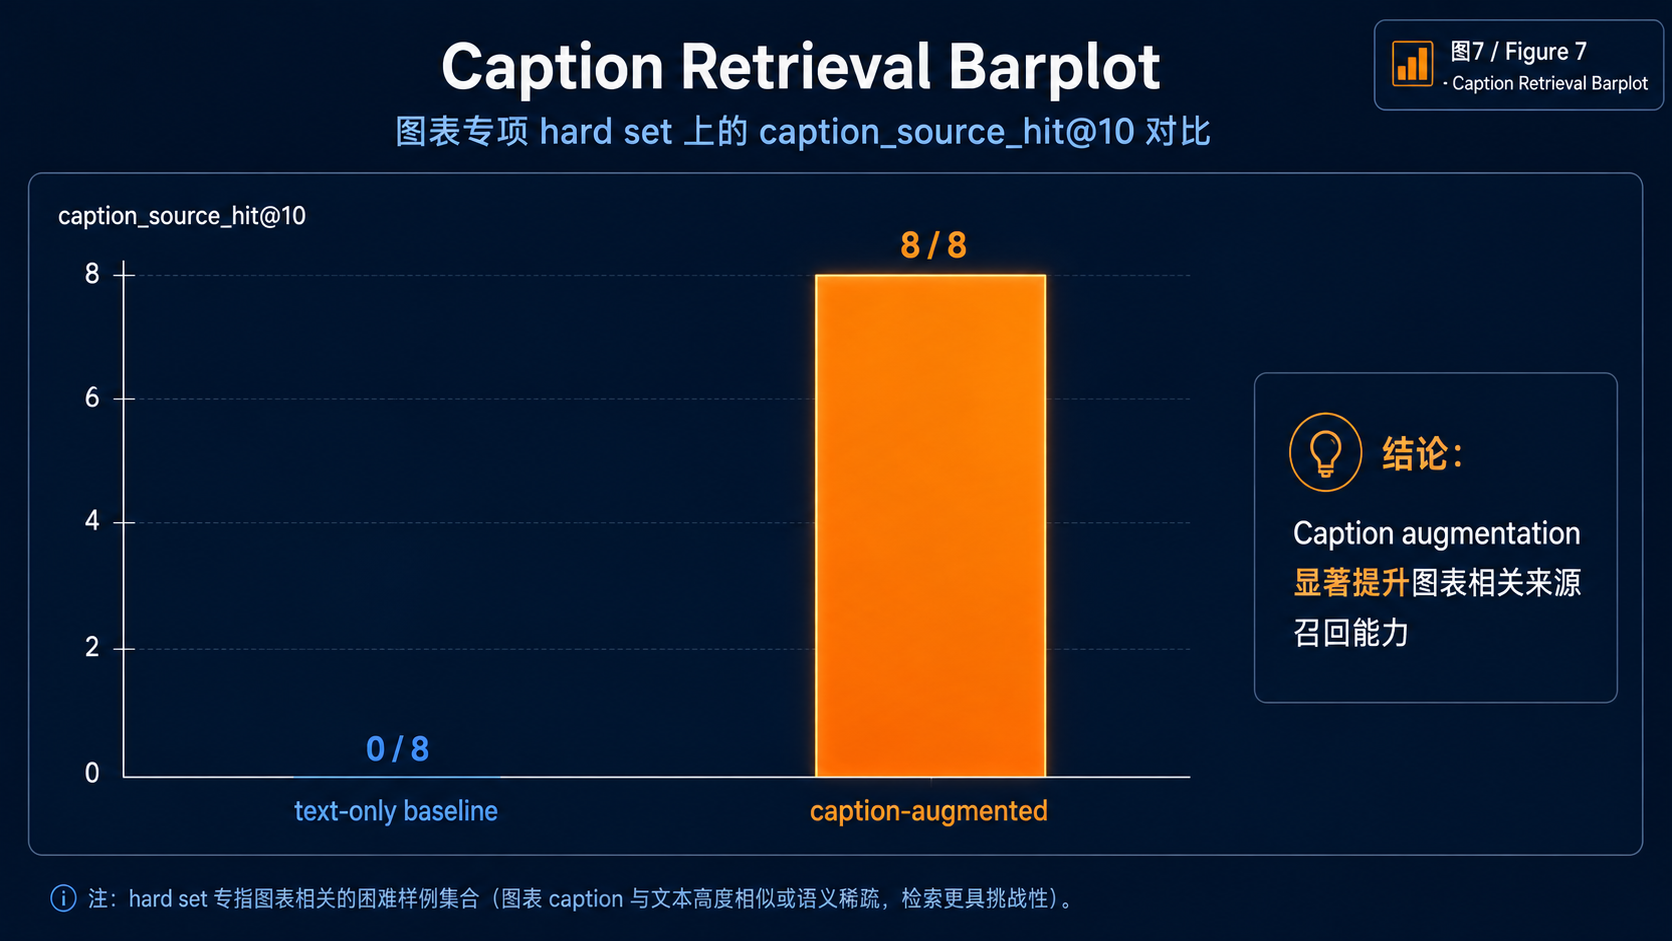
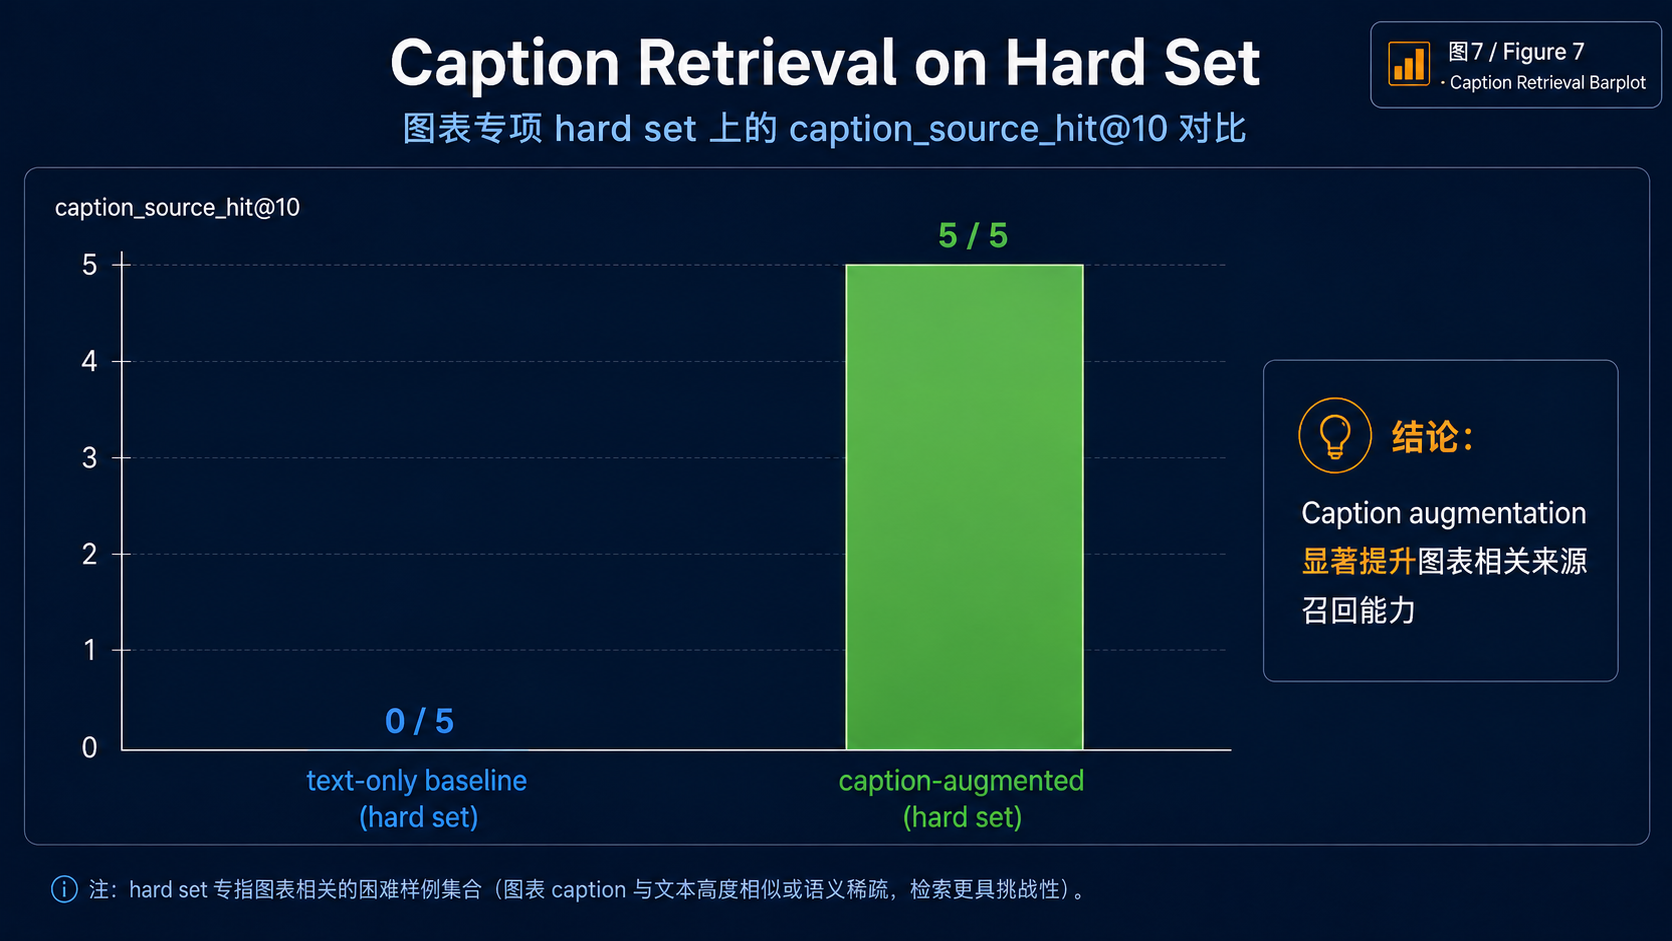
Polish README positioning and hard-set figures

diff --git a/README.md b/README.md
@@ -5,7 +5,7 @@
 > 项目重点是小规模眼科文献语料下的 source-level 评测设计、检索与生成消融实验、
 > hardcase 分析、图表 caption 增强探索，以及工程 badcase 复盘。
 
-本项目是一个面向眼科 AI 文献研究的 evaluation-driven RAG workflow，重点关注真实论文场景下的证据检索、回答质量评估、hardcase 分析与工程化复盘。
+主要工作包括：
 
 - 领域化 ingestion 与中文医学文本适配
 - source-level golden set 设计
@@ -19,6 +19,8 @@
 
 > 本仓库不包含原始 PDF、向量数据库、API key 或上游完整源码，只保留评测设计、实验结果、脚本、patch 和案例分析。
 
+> MCP server、dashboard 和完整 RAG runtime 来自上游 Modular RAG MCP Server；本仓库只展示眼科场景评测产物、patch、脚本和 case study。
+
 ## TL;DR
 
 | Dimension | Result |
@@ -28,20 +30,16 @@
 | Best retrieval baseline | `dense`：source_hit@5 = 1.0000，source_mrr@5 = 0.7917 |
 | Best generation setting | `dense_top10`：source_coverage@k = 0.6833 |
 | Hybrid finding | 跨语言医学检索里，简单 Hybrid RRF 不一定优于 Dense |
-| Vision caption retrieval | hard set 上 source_hit_rate 从 0.0000 提升到 1.0000 |
-| Vision caption generation | hard set 关键词覆盖从 3.40 提升到 5.80 |
+| Caption pilot | 小规模 hard pilot 中，caption-derived source 召回从 0/5 提升到 5/5 |
+| Caption limitation | 关键词覆盖有提升，但不等于 answer-level factual correctness |
 | LLM ingestion finding | 长论文全量 chunk-level LLM refine 会触发大量 429，应改为 selective refinement |
 
 ## Visual Overview
 
-> **PLACEHOLDER: Architecture Overview**  
+**Architecture Overview**  
 ![Architecture Overview](assets/figures/medical_literature_rag_architecture_overview.png)
 
-> **PLACEHOLDER: Retrieval Flow**  
-![Retrieval Flow](assets/figures/retrieval_pipeline_system_diagram.png)
-
-> **PLACEHOLDER: Caption-Augmented RAG Flow**  
-![Caption-Augmented RAG Flow](assets/figures/tech_infused_figure_caption_flowchart_diagram.png)
+> 该图用于概览本项目评测过的流程与后续扩展点；具体定量结果以本文表格和 `eval/results/` 记录为准。
 
 ## Project Navigation
 
@@ -121,107 +119,56 @@
 
 ## Key Findings
 
-### Finding 1: Dense Retrieval 优于简单 Hybrid RRF
+1. **在当前跨语言 pilot hard set 上，Dense retrieval 表现最好。**  
+   许多问题用中文提出，但目标证据来自英文论文。相比 sparse keyword matching，dense retrieval 更适合这类跨语言语义匹配。
 
-在这个跨语言医学文献场景中，dense retrieval 表现最好。很多查询用中文写，但目标 evidence 在英文论文中。Sparse retrieval 速度更快，但更容易受到中文关键词噪声影响。
+2. **RAG 生成质量受 source coverage 限制。**  
+   当检索漏掉关键 evidence sources 时，生成答案仍可能很流畅，但内容会变窄、不完整，甚至偏向已召回的旁支材料。
 
-RETFound 相关查询暴露了一个具体 failure mode：sparse retrieval 将包含“基础模型/泛化/预训练”等通用词的中文 report chunks 排得过高，简单的 RRF fusion 把正确的英文 RETFound 论文挤出了 top-5。
+3. **全量 chunk-level LLM ingestion 不适合作为默认方案。**  
+   LLM-based refinement 在小文档上可行，但长论文会触发大量 429 fallback。更实际的设计是 selective refinement，配合 cache、retry/backoff 和异步任务。
 
-### Finding 2: RAG Quality 受 Source Coverage 限制
+4. **Caption augmentation 是小规模 pilot extension，不是完整多模态 benchmark。**  
+   Caption-derived chunks 在 5 条图表 hard pilot 问题上提升了目标来源召回，但 keyword coverage 只是轻量信号，仍需要 answer-level human review。
 
-对于“眼科多模态模型、报告生成模型和真实临床验证之间的关系”这类复杂问题，一个好的答案需要多个 evidence sources。当 retrieval 遗漏关键论文时，RAG 仍然能生成流畅答案，但框架会变得更窄、不完整。
-
-### Finding 3: 全量 LLM Ingestion Enhancement 不适合生产环境
-
-LLM-based chunk refinement 在小文档上工作正常，但长论文会快速触发 rate limit：
-
-| document | chunks | LLM refined | fallback |
-| --- | ---: | ---: | ---: |
-| 汇报6.pdf | 6 | 6 | 0 |
-| Reti-Pioneer paper | 126 | 10 | 116 |
-
-这提示更实际的生产设计：先做稳定的 rule-based ingestion，然后对 selective chunks 做异步 LLM refinement，配合 caching 和 retry/backoff。
-
-### Finding 4: Caption-Augmented RAG 改善了图表相关检索
-
-我从 Reti-Pioneer 论文中提取 images，筛选 8 张大图，用 Vision LLM 生成中文 captions，并将 captions 作为 Markdown 文档入库。
-
-Hard vision caption retrieval 结果：
-
-| setting | source_hit_rate | source_mrr |
-| --- | ---: | ---: |
-| text-only hard | 0.0000 | 0.0000 |
-| caption-augmented hard | 1.0000 | 0.2500 |
-
-Hard vision caption generation 结果：
-
-| setting | avg_keyword_hits_per_answer |
-| --- | ---: |
-| text-only hard | 3.40 |
-| caption-augmented hard | 5.80 |
-
-检索收益明显；生成收益为正，但仍需 answer-level human review 来验证正确性。
+更多细节见：[Key Findings](docs/showcase/key_findings.md)、[Caption-Augmented RAG](docs/showcase/caption_augmented_rag.md)、[Hardcase Examples](docs/showcase/hardcase_examples.md)。
 
 ## Evaluation Methodology
 
-> **PLACEHOLDER: Source-Level Evaluation Diagram**  
-![Source-level Evaluation](assets/figures/source_level_vs_chunk_id_evaluation_methods.png)
+本项目采用 source-level evaluation 作为主评测方式，避免固定 chunk-id 随 chunk size、overlap、splitter 和 transform 变化而漂移。
 
-评估聚焦于 source-level correctness，因为 chunk IDs 会随 chunk size、overlap 和 splitter rules 变化而不稳定。
+核心指标包括：
 
-对于普通论文，expected sources 标识目标论文或报告。对于 caption-derived knowledge，我增加了 metadata-aware source matching：
+- `source_hit@k`：是否召回至少一个期望来源
+- `source_mrr@k`：期望来源首次出现的位置
+- `source_coverage@k`：多来源问题中覆盖了多少期望来源
+- `keyword coverage`：仅用于生成结果的轻量信息覆盖观察，不代表事实正确性
 
-```json
-{
-  "expected_metadata": {
-    "source_type": "figure_caption",
-    "source_paper": "Reti-Pioneer",
-    "modality": "vision_caption"
-  }
-}
-```
+对于 caption-derived knowledge，我进一步加入 metadata-aware source matching，例如 `source_type=figure_caption`、`source_paper=Reti-Pioneer`、`modality=vision_caption`。
 
-## Hardcase Examples
+更多细节见：[Evaluation Methodology](docs/showcase/evaluation_methodology.md)。
 
-> **PLACEHOLDER: Hybrid Failure Visualization**  
-![Hybrid Retrieval Badcase](assets/figures/hybrid_retrieval_badcase_analysis_dashboard.png)
+## Hardcase & Engineering Notes
 
-> **PLACEHOLDER: RAG Limitation Example**  
-![Source Coverage Limitation](assets/figures/source_coverage_limitation_in_text_only_retrieval.png)
+本项目主动保留 hardcase / badcase，而不是只展示成功样例：
 
-代表性 hard cases：
+- 简单 Hybrid RRF 在跨语言医学问题上可能被 sparse 关键词噪声干扰
+- 检索缺失关键 evidence sources 时，RAG 生成会变窄或不完整
+- Vision caption 能补充图表检索，但可能误读密集医学统计图
+- 全量 LLM refine 会触发 API rate limit，更适合改为 selective / cached / async refinement
+- Vision wrapper 的 `base_url` 配置问题通过逐层 debug 定位并修复
 
-- 在跨语言医学搜索中，Hybrid RRF 可能不如 Dense
-- RAG 答案看起来完整，但可能缺失关键 evidence sources
-- Vision captions 有助于检索，但密集医学图表仍可能被语义误读
-- LLM ingestion enhancement 应该是 selective 和 asynchronous 的，而不是全量同步处理所有 chunks
+更多细节见：[Hardcase Examples](docs/showcase/hardcase_examples.md)、[Engineering Notes & Badcases](docs/showcase/engineering_notes_badcases.md)。
 
-## Engineering Notes
+## Exploratory Extension: Caption-Augmented RAG
 
-### Markdown/TXT Ingestion
+图表增强部分是一个小规模 exploratory extension，而不是完整多模态 RAG benchmark。
 
-为了将 figure captions 作为 first-class knowledge sources 入库，我扩展了 ingestion pipeline 以支持 `.md` 和 `.txt` 文件。这避免了将 captions 转回 PDF，并保留了 metadata 如：
+我从 Reti-Pioneer 中筛选 8 张大图生成 caption，并将 caption Markdown 作为派生知识源入库。在 5 条图表 hard pilot 问题上，caption-derived source 召回从 `0/5` 提升到 `5/5`；生成关键词覆盖从 `3.40` 提升到 `5.80`。
 
-- `source_type: figure_caption`
-- `source_paper: Reti-Pioneer`
-- `modality: vision_caption`
-- `derived_from: extracted_figures`
+这个结果只说明 caption 入库对图表相关 evidence retrieval 有正向信号，不代表回答已经达到医学事实正确。后续需要人工 review、chart-specific labels 和更大的 image/table-only golden set。
 
-### Vision Wrapper Fix
-
-项目自带的 `OpenAIVisionLLM` wrapper 最初忽略了 `vision_llm.base_url`，导致 DashScope-compatible vision calls 回退到 `https://api.openai.com/v1`。我修复了 wrapper 以读取 `settings.vision_llm.base_url`，并验证了 wrapper-level tiny-image captioning。
-
-### Future Rerank Ablation
-
-下一个干净的 ablation 实验：
-
-| setting | recall | rerank | final top-k |
-| --- | --- | --- | --- |
-| dense_top10 | dense top10 | none | 10 |
-| dense50_rerank10 | dense top50 | qwen3-rerank | 10 |
-| hybrid50_rerank10 | hybrid top50 | qwen3-rerank | 10 |
-
-关键原则：固定 `text-embedding-v4` 用于 recall，然后将 rerank 作为独立变量添加。
+更多细节见：[Caption-Augmented RAG](docs/showcase/caption_augmented_rag.md)。
 
 ## Repository Boundary
 
@@ -247,7 +194,7 @@ Hard vision caption generation 结果：
 
 ## Next Steps
 
-- 生成上述列出的 placeholder diagrams
+- 扩展 caption hard set，并加入 answer-level human review
 - 添加 qwen3-rerank 作为独立的 rerank ablation
 - 为 vision-caption generation 添加更严格的 answer-level correctness labels
 - 添加小规模 metadata filtering 实验（按 paper type / modality / language）

diff --git a/docs/showcase/caption_augmented_rag.md b/docs/showcase/caption_augmented_rag.md
@@ -16,7 +16,7 @@
 
 ## 2. Pipeline
 
-> **PLACEHOLDER: Caption-Augmented RAG Pipeline**  
+**Caption-Augmented RAG Pipeline**  
 ![Caption-Augmented RAG Flow](../../assets/figures/tech_infused_figure_caption_flowchart_diagram.png)
 
 步骤：
@@ -63,8 +63,8 @@ Vision-generated captions 可能 misread dense medical figures。在本项目中
 - answer-level correctness labels
 - stricter chart-only golden questions
 
-> **PLACEHOLDER: Caption Retrieval Comparison Barplot**  
+**Caption Retrieval Comparison**  
 ![Caption Retrieval Comparison](../../assets/figures/caption_retrieval_barplot_comparison.png)
 
-> **PLACEHOLDER: Hard Generation Keyword Coverage Chart**  
+**Hard Generation Keyword Coverage**  
 ![Hard Generation Keyword Coverage](../../assets/figures/hard_generation_keyword_coverage_analysis.png)

diff --git a/docs/records/ophthalmology_rag_eval_summary.md b/docs/records/ophthalmology_rag_eval_summary.md
@@ -73,12 +73,12 @@ RETFound 相关问题说明 hybrid search 并不是天然最优。Dense retrieva
 
 ### 9.1 检索消融实验
 
-![Retrieval Ablation](../eval/results/figures/retrieval_ablation.svg)
+![Retrieval Ablation](../../eval/results/figures/retrieval_ablation.svg)
 
 该图对比了 dense、hybrid 和 sparse 三种检索模式的来源命中率、MRR 和平均查询耗时。结果显示，在中文问题检索英文眼科论文的场景下，dense retrieval 的检索质量最高，而 sparse retrieval 虽然最快，但更容易受到关键词噪声影响。Hybrid RRF 并没有稳定超过 dense，说明融合策略仍需要进一步调权或 rerank。
 
 ### 9.2 生成消融实验
 
-![Generation Ablation](../eval/results/figures/generation_ablation.svg)
+![Generation Ablation](../../eval/results/figures/generation_ablation.svg)
 
 该图对比了不同 top-k 和检索模式下的生成增强效果。dense_top10 在 source_coverage 和 citation_coverage 上表现最好，同时总耗时仍可接受，因此被选为当前 demo 的默认生成配置。

diff --git a/docs/showcase/evaluation_methodology.md b/docs/showcase/evaluation_methodology.md
@@ -14,7 +14,7 @@ Chunk IDs 是不稳定的。它们会在以下情况发生变化：
 
 因此，我使用 source-level evaluation 作为主要的 retrieval metric。
 
-> **PLACEHOLDER: Source-Level vs Chunk-Level Evaluation**  
+**Source-Level vs Chunk-Level Evaluation**  
 ![Source-level Evaluation](../../assets/figures/source_level_vs_chunk_id_evaluation_methods.png)
 
 ## 2. Retrieval Metrics
@@ -65,5 +65,5 @@ Hard vision-caption questions 的设计原则：
 - 避免通用的 paper-summary 问题
 - 包含 caption reliability 和 misreading 风险
 
-> **PLACEHOLDER: Evaluation Pipeline Diagram**  
+**Evaluation Pipeline**  
 ![Retrieval Pipeline](../../assets/figures/retrieval_pipeline_system_diagram.png)

diff --git a/docs/records/error_analysis.md b/docs/records/error_analysis.md
@@ -85,7 +85,7 @@
 
 而实际入库时 `TextLoader` 会把 `source_path` 解析成绝对路径：
 
-`/media/pc3048/8e92fcae-9dcb-48b7-818b-82c5f8ed050e/aidata/LiuRongTao/MODULAR-RAG-MCP-SERVER/data/ophthalmology_caption_docs/reti_pioneer_figure_captions.md`
+`<PROJECT_ROOT>/data/ophthalmology_caption_docs/reti_pioneer_figure_captions.md`
 
 真实 prefix 是：
 

diff --git a/docs/showcase/key_findings.md b/docs/showcase/key_findings.md
@@ -63,5 +63,5 @@ Hard generation keyword coverage：
 
 这是一个 positive signal，但 keyword coverage 不等于 factual correctness。下一步应进行 answer-level correctness review。
 
-> **PLACEHOLDER: Key Findings Summary Graphic**  
+**Caption Retrieval Summary**  
 ![Caption Retrieval Comparison](../../assets/figures/caption_retrieval_barplot_comparison.png)